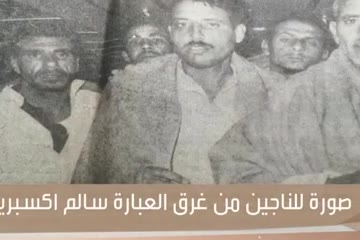
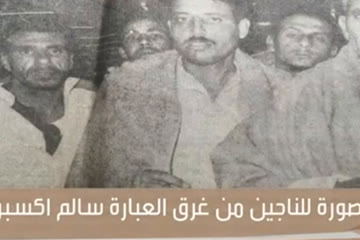
Salem Express story: people on the tilting deck reach and scream with straight arms; galabeya shoulders follow the body; Survivors' photo slowly zooms
Claude-Session: https://claude.ai/code/session_01E23g9Y1KyqYYdwZUxDq2B8

diff --git a/videos/salem/film/scenes.js b/videos/salem/film/scenes.js
@@ -499,7 +499,7 @@
   // 0 · the survivor's real voice; the ship in the storm, already listing
   shot(0, push([180, 330], [180, 336], 1.0, 1.08), function (u, d, t) { return stormNight(t, 380) + shipAt(180, 400, .55, t, { lit: 1, rot: 8 + 1.5 * Math.sin(t * 1.2) }) + waves(t, 400, 9) + rain(t, 80, .35) + recS(t, 66, SURV); }, { foot: "mdark", fw: 250, fy: 130, rot: 0, sync: 1, cap: "فيديو حقيقي · محمود عبد العزيز بيحكي" });
   // 1 · it is real: the photograph of the survivors
-  shot(1, push([180, 330], [180, 320], 1.05, 1.12), function (u, d, t) { return stormNight(t, 400) + waves(t, 420, 6) + rain(t, 40, .25); }, { foot: "photo", fw: 290, fy: 140, cap: "صورة حقيقية · ناجين من سالم إكسبريس" });
+  shot(1, push([180, 340], [185, 300], 1.0, 1.28), function (u, d, t) { return stormNight(t, 400) + waves(t, 420, 6) + rain(t, 40, .25) + dust(t, 50, "#9fc4e6", .5, 9) + rain(t, 60, .3); }, { foot: "photo", fw: 290, fy: 140, cap: "صورة حقيقية · ناجين من سالم إكسبريس" });
   // 2 · the night of 14 December 1991, the Red Sea
   shot(2, push([180, 320], [190, 330], 1.0, 1.1), function (u, d, t) { return night(t, 400) + shipAt(lerp(250, 170, u / d), 400, .5, t, { lit: 1, smoke: 1 }) + seaFront(t, 401, .55) + label("14 ديسمبر 1991", 180, 170, u, .3, 30, "#fff") + label("البحر الأحمر", 180, 208, u, .8, 20, YEL); });
   // 3 · Jeddah to Safaga, more than 600 people
@@ -531,7 +531,7 @@
   // 16 · about 800 km: the Saudi shore falls away to the right, the Egyptian one comes closer on the left
   shot(16, push([180, 270], [150, 230], 1.02, 1.15), function (u, d, t) { var w = wide(t); return w.s + routeLine(w.g, ROUTE, .5 + clamp(u / d) * .42, YEL, { w: 3, ship: 1, t: t }) + label("~800 كم", 240, 300, u, .5, 22, YEL); });
   // 17 · near Safaga, reefs just under the surface (the map zooms in)
-  shot(17, push([180, 280], [180, 280], 1.0, 1.1), function (u, d, t) { var z = zoomed(t); return z.s + label("شعاب مرجانية", 230, 360, u, D(17) * .5, 18, YEL); });
+  shot(17, push([170, 300], [200, 270], 1.0, 1.35), function (u, d, t) { var z = zoomed(t); return z.s + label("شعاب مرجانية", 230, 360, u, D(17) * .5, 18, YEL) + dust(t, 40, "#cfe8ff", .5, 4); });
   // 18 · the weather turned that night: wind, high waves
   shot(18, push([180, 330], [180, 340], 1.1, 1.2), function (u, d, t) { return stormNight(t, 380) + shipAt(180, 400, .6, t, { lit: 1, rot: 4 * Math.sin(t * 1.1) }) + waves(t, 398, 12) + rain(t, 120, .45); });
   // 19 · the normal way goes round the reefs
@@ -551,9 +551,9 @@
   // 26 · the water into the car deck, and the lights went out
   shot(26, push([180, 336], [180, 340], 1.5, 1.35), function (u, d, t) { var k = clamp((u - D(26) * .55) / .3); return cutScene(t, .78, { water: lerp(.2, .6, clamp(u / d)), list: lerp(2, 8, clamp(u / d)), hlW: 1 }) + R(-220, -220, 800, 1300, "#02040a", { s: 0, op: .82 * k }) + label("النور قطع", 180, 160, u, D(26) * .6, 24, "#fff"); });
   // 27 · imagine: the dark, the floor tilting under your feet
-  shot(27, push([180, 330], [180, 320], 1.05, 1.2), function (u, d, t) { var tl = lerp(6, 14, clamp(u / d)), inner = ""; for (var i = 0; i < 4; i++) inner += pil(i, { x: 40 + i * 90, y: 500, s: .6, breath: (Math.sin(t * 5 + i) + 1) / 2, lean: -tl * .6, head: { turn: (hash(i) - .5) * 1.2, tilt: -6 }, face: { eyes: 1.25, brows: "worried", mouth: i % 2 ? "open" : "o" }, arms: [{ rel: [-60, 40], hand: "open", bend: 1 }, { rel: [60, 30], hand: "open", bend: -1 }] }); return deckN(t, tl, inner) + R(-220, -220, 800, 1300, "#000", { s: 0, op: .45 }) + rain(t, 60, .3); });
+  shot(27, push([180, 330], [180, 320], 1.05, 1.2), function (u, d, t) { var tl = lerp(6, 14, clamp(u / d)), inner = ""; for (var i = 0; i < 4; i++) inner += pil(i, { x: 40 + i * 90, y: 500, s: .6, breath: (Math.sin(t * 5 + i) + 1) / 2, lean: -tl * .6, head: { turn: (hash(i) - .5) * 1.2, tilt: -6 }, face: { eyes: 1.25, brows: "worried", mouth: i % 2 ? "open" : "o" }, arms: [[{ rel: [-118, 30 + 6 * Math.sin(t * 2 + i)], hand: "open", bend: 1, straight: true }, { rel: [118, 36 - 6 * Math.sin(t * 2 + i)], hand: "open", bend: -1, straight: true }], [{ rel: [-40, -120], hand: "open", bend: 1, straight: true, palm: true }, { rel: [70, 96], hand: "open", bend: -1, straight: true }]][i % 2] }); return deckN(t, tl, inner) + R(-220, -220, 800, 1300, "#000", { s: 0, op: .45 }) + rain(t, 60, .3); });
   // 28 · the survivor: the women, the men, a mother with two children (synced)
-  shot(28, push([180, 330], [180, 330], 1.1, 1.15), function (u, d, t) { var tl = 14 + 3 * clamp(u / d), inner = ""; for (var i = 0; i < 3; i++) inner += pil(i + 2, { x: 60 + i * 120, y: 510, s: .6, lean: -tl * .6, head: { tilt: -8 }, face: { eyes: 1.25, brows: "worried", mouth: "open" }, arms: [{ rel: [-40, -40], hand: "open", bend: 1 }, { rel: [40, -50], hand: "open", bend: -1 }] }); return deckN(t, tl, inner) + R(-220, -220, 800, 1300, "#000", { s: 0, op: .5 }) + recS(t, 66, SURV); }, { foot: "mwomen", fw: 230, fy: 128, rot: 0, sync: 1, cap: "فيديو حقيقي · محمود عبد العزيز بيحكي" });
+  shot(28, push([180, 330], [180, 330], 1.1, 1.15), function (u, d, t) { var tl = 14 + 3 * clamp(u / d), inner = ""; for (var i = 0; i < 3; i++) inner += pil(i + 2, { x: 60 + i * 120, y: 510, s: .6, lean: -tl * .6, head: { tilt: -8 }, face: { eyes: 1.25, brows: "worried", mouth: "open" }, arms: [[{ rel: [-50 + 6 * Math.sin(t * 3 + i), -116], hand: "open", bend: 1, straight: true, palm: true }, { rel: [50 - 6 * Math.sin(t * 3 + i), -116], hand: "open", bend: -1, straight: true, palm: true }], [{ rel: [-110, -40], hand: "open", bend: 1, straight: true, palm: true }, { rel: [60, -108], hand: "open", bend: -1, straight: true, palm: true }]][i % 2] }); return deckN(t, tl, inner) + R(-220, -220, 800, 1300, "#000", { s: 0, op: .5 }) + recS(t, 66, SURV); }, { foot: "mwomen", fw: 230, fy: 128, rot: 0, sync: 1, cap: "فيديو حقيقي · محمود عبد العزيز بيحكي" });
   // 29 · the ship leaning onto her starboard side, fast
   shot(29, push([180, 336], [180, 340], 1.3, 1.25), function (u, d, t) { return cutScene(t, .78, { water: .9, list: lerp(10, 24, clamp(u / d)), hlW: 1, slide: .3 }) + label("بتميل… بسرعة", 180, 160, u, .5, 22, "#ff6a4a"); });
   // 30 · and at that moment… (the cliffhanger frame)
@@ -565,13 +565,13 @@
   // 33 · in under twenty minutes she rolled onto her side… and went down
   shot(33, push([180, 334], [180, 380], 1.2, 1.0), function (u, d, t) { var k = ease((u - D(33) * .25) / 2.0), k2 = clamp((u - D(33) * .25 - 1.4) / 2.4); return night(t, WY) + cutS(180 + 26 * k, WY + 20 * k + 250 * k2, .62, t, { water: 1, list: lerp(26, 90, k), hlW: 1, slide: .5 }) + seaFront(t, WY, .7) + rain(t, 60, .3); });
   // 34 · many were asleep in the cabins
-  shot(34, push([180, 320], [180, 320], 1.0, 1.08), function (u, d, t) { var s = R(-220, -220, 800, 1300, "#141a26", { s: 0 }) + R(40, 200, 280, 260, "#2a3040", { w: 2 }) + R(60, 220, 240, 70, "#3a4256", { w: 1.6 }) + R(60, 330, 240, 70, "#3a4256", { w: 1.6 }); s += PERSON.side({ x: 180, y: 275, s: .45, rot: -90, outfit: "galabeya", colors: { hair: "#2a2018", skin: "#c98f66" }, face: { eyes: 0 } }).svg; s += R(60, 290, 240, 8, "#c9c3b4", { w: 1 }); return s + R(-220, lerp(560, 330, clamp(u / d)), 800, 400, "#1f4a7a", { s: 0, op: .75 }) + R(-220, -220, 800, 1300, "#000", { s: 0, op: .3 }); });
+  shot(34, push([180, 330], [180, 300], 1.0, 1.25), function (u, d, t) { var s = R(-220, -220, 800, 1300, "#141a26", { s: 0 }) + R(40, 200, 280, 260, "#2a3040", { w: 2 }) + R(60, 220, 240, 70, "#3a4256", { w: 1.6 }) + R(60, 330, 240, 70, "#3a4256", { w: 1.6 }); s += PERSON.side({ x: 180, y: 275, s: .45, rot: -90, outfit: "galabeya", colors: { hair: "#2a2018", skin: "#c98f66" }, face: { eyes: 0 } }).svg; s += R(60, 290, 240, 8, "#c9c3b4", { w: 1 }); return s + R(-220, lerp(560, 330, clamp(u / d)), 800, 400, "#1f4a7a", { s: 0, op: .75 }) + R(-220, -220, 800, 1300, "#000", { s: 0, op: .3 }) + dust(t, 50, "#9fc4e6", .5, 6); });
   // 35 · the survivor: "the waves… death among the people, one after another" (synced)
   shot(35, push([180, 330], [180, 330], 1.05, 1.1), function (u, d, t) { var s = stormNight(t, 330) + waves(t, 340, 10); for (var i = 0; i < 4; i++) s += swimmerN(60 + i * 80, 420 + (i % 2) * 30, .28, t, i); return s + rain(t, 70, .35) + recS(t, 66, SURV); }, { foot: "mwaves", fw: 230, fy: 128, rot: 0, sync: 1, cap: "فيديو حقيقي · محمود عبد العزيز بيحكي" });
   // 36 · people in the water, in the dark and the waves, swimming for the shore
   shot(36, push([180, 340], [180, 330], 1.0, 1.08), function (u, d, t) { var s = stormNight(t, 300) + R(-220, 290, 800, 20, "#1a1c22", { s: 0 }); for (var l = 0; l < 8; l++) s += Ci(30 + l * 44, 298, 1.8, "#ffd98a", { s: 0, op: .6 + .4 * Math.sin(t * 2 + l) }); s += waves(t, 310, 9); for (var i = 0; i < 5; i++) s += swimmerN(40 + i * 70, 380 + (i % 3) * 40, .3, t, i); return s + label("الشط", 180, 280, u, .6, 14, YEL); });
   // 37 · morning: fishermen and rescuers find survivors, and many dead
-  shot(37, push([180, 320], [180, 320], 1.0, 1.1), function (u, d, t) { return sky("skyDawnT") + R(-220, 400, 800, 500, "url(#seaDawn)", { s: 0 }) + glints(t, 400, 30, "#f6d8b0") + G("translate(150 420) scale(.5)", raft(0, 0, t)) + G("translate(" + f(lerp(380, 260, u / d)) + " 412)", P("M-40 0 L-34 -12 L36 -12 L44 0 Z", "#2a5a8a", { w: 1.6 }) + R(-10, -24, 18, 12, "#e8e4d8", { w: 1.2 })) + vests(t, 410, 4); });
+  shot(37, push([170, 330], [200, 320], 1.0, 1.28), function (u, d, t) { return sky("skyDawnT") + R(-220, 400, 800, 500, "url(#seaDawn)", { s: 0 }) + glints(t, 400, 30, "#f6d8b0") + G("translate(150 420) scale(.5)", raft(0, 0, t)) + G("translate(" + f(lerp(380, 260, u / d)) + " 412)", P("M-40 0 L-34 -12 L36 -12 L44 0 Z", "#2a5a8a", { w: 1.6 }) + R(-10, -24, 18, 12, "#e8e4d8", { w: 1.2 })) + vests(t, 410, 4) + dust(t, 40, "#ffe2c0", .5, 2); });
   // 38 · the official number: 470
   shot(38, push([180, 320], [180, 330], 1.0, 1.12), function (u, d, t) { return night(t, 380) + seaFront(t, 381, .5) + bigNum("470", 180, 220, u, .5, 70, "#fff") + label("الرقم الرسمي", 180, 266, u, 1, 20, YEL); });
   // 39 · but many say the real number is far higher
@@ -591,13 +591,13 @@
   // 46 · many say it should be left alone: it is a grave
   shot(46, push([180, 330], [180, 320], 1.0, 1.05), function (u, d, t) { return underSea(t) + wreckSide(180, 470, .6, t) + fish(t, 6, 220) + R(-220, -220, 800, 1300, "#020812", { s: 0, op: .3 }) + label("مقبرة", 180, 420, u, D(46) * .4, 26, "#fff"); }, { foot: "clothes20", cap: "فيديو حقيقي · هدوم جوه العبّارة، 2020" });
   // 47 · the shortcut, banned for all big ships afterwards
-  shot(47, push([170, 280], [170, 280], 1.2, 1.25), function (u, d, t) { var z = zoomed(t); return z.s + routeLine(z.g, SHORT, 1, "#e23a2a", { w: 3.4 }) + xmark(z.w[0], z.w[1] - 40, 1.2, (u - .6) / .5) + routeLine(z.g, NORMAL, 1, "#4ac06a", { w: 2.4, dash: "7 5" }) + label("اتمنع", 180, 150, u, D(47) * .5, 26, "#ff6a4a"); });
+  shot(47, push([160, 300], [180, 270], 1.1, 1.4), function (u, d, t) { var z = zoomed(t); return z.s + routeLine(z.g, SHORT, 1, "#e23a2a", { w: 3.4 }) + xmark(z.w[0], z.w[1] - 40, 1.2, (u - .6) / .5) + routeLine(z.g, NORMAL, 1, "#4ac06a", { w: 2.4, dash: "7 5" }) + label("اتمنع", 180, 150, u, D(47) * .5, 26, "#ff6a4a") + dust(t, 40, "#cfe8ff", .5, 4); });
   // 48 · the same bow door, three years later, sank the Estonia in the Baltic
   shot(48, push([100, 340], [110, 340], 1.9, 2.1), function (u, d, t) { var s = sky("skyStar") + cloudBank(t, 90, 10, 6, "#1a2236", .9, 1.4) + salem({ x: 20, y: 400, s: .9, t: t, lit: 1, noname: 1, visor: lerp(0, 70, ease(clamp((u - 1) / 1.2))) }) + waves(t, 396, 12) + rain(t, 100, .45); return s + label("إستونيا · بحر البلطيق · 1994", 110, 230, u, .4, 13, YEL); });
   // 49 · fifteen years later, Al-Salam 98, in the same sea, with pilgrims again
   shot(49, push([180, 320], [180, 320], 1.0, 1.1), function (u, d, t) { return night(t, 400) + ferryN(lerp(250, 170, u / d), 400, .5, t) + seaFront(t, 401, .55) + label("عبّارة السلام 98 · 2006", 180, 180, u, .6, 20, YEL); });
   // 50 · the call to comment: dawn over the Red Sea, the Safaga shore
-  shot(50, push([180, 330], [180, 320], 1.0, 1.06), function (u, d, t) { return sky("skyDawnT") + mountains(392, ["#8a6a5a", "#6a5048", "#4a3a3a"]) + R(-220, 400, 800, 500, "url(#seaDawn)", { s: 0 }) + glints(t, 400, 40, "#f6d8b0") + G("translate(200 430)", R(-3, -26, 6, 26, "#e23a2a", { w: 1.2 }) + Ci(0, 0, 8, "#f2c230", { w: 1.2 })); });
+  shot(50, push([170, 340], [190, 320], 1.0, 1.25), function (u, d, t) { return sky("skyDawnT") + mountains(392, ["#8a6a5a", "#6a5048", "#4a3a3a"]) + R(-220, 400, 800, 500, "url(#seaDawn)", { s: 0 }) + glints(t, 400, 40, "#f6d8b0") + G("translate(200 430)", R(-3, -26, 6, 26, "#e23a2a", { w: 1.2 }) + Ci(0, 0, 8, "#f2c230", { w: 1.2 })) + dust(t, 40, "#ffe2c0", .5, 3); });
   window.__chip = function (t) { var i = 0; while (i < LN.length - 1 && LN[i + 1].start - .05 <= t) i++; return (i >= 2 && i <= 8) ? .9 : 0; };
 
   // the "link in bio" pill on the bio line, the chip on the opening lines, the real-footage cards

diff --git a/videos/salem/film/_se.js b/videos/salem/film/_se.js
@@ -86,7 +86,7 @@
   // 0 · the survivor's real voice; the ship in the storm, already listing
   shot(0, push([180, 330], [180, 336], 1.0, 1.08), function (u, d, t) { return stormNight(t, 380) + shipAt(180, 400, .55, t, { lit: 1, rot: 8 + 1.5 * Math.sin(t * 1.2) }) + waves(t, 400, 9) + rain(t, 80, .35) + recS(t, 66, SURV); }, { foot: "mdark", fw: 250, fy: 130, rot: 0, sync: 1, cap: "فيديو حقيقي · محمود عبد العزيز بيحكي" });
   // 1 · it is real: the photograph of the survivors
-  shot(1, push([180, 330], [180, 320], 1.05, 1.12), function (u, d, t) { return stormNight(t, 400) + waves(t, 420, 6) + rain(t, 40, .25); }, { foot: "photo", fw: 290, fy: 140, cap: "صورة حقيقية · ناجين من سالم إكسبريس" });
+  shot(1, push([180, 340], [185, 300], 1.0, 1.28), function (u, d, t) { return stormNight(t, 400) + waves(t, 420, 6) + rain(t, 40, .25) + dust(t, 50, "#9fc4e6", .5, 9) + rain(t, 60, .3); }, { foot: "photo", fw: 290, fy: 140, cap: "صورة حقيقية · ناجين من سالم إكسبريس" });
   // 2 · the night of 14 December 1991, the Red Sea
   shot(2, push([180, 320], [190, 330], 1.0, 1.1), function (u, d, t) { return night(t, 400) + shipAt(lerp(250, 170, u / d), 400, .5, t, { lit: 1, smoke: 1 }) + seaFront(t, 401, .55) + label("14 ديسمبر 1991", 180, 170, u, .3, 30, "#fff") + label("البحر الأحمر", 180, 208, u, .8, 20, YEL); });
   // 3 · Jeddah to Safaga, more than 600 people
@@ -118,7 +118,7 @@
   // 16 · about 800 km: the Saudi shore falls away to the right, the Egyptian one comes closer on the left
   shot(16, push([180, 270], [150, 230], 1.02, 1.15), function (u, d, t) { var w = wide(t); return w.s + routeLine(w.g, ROUTE, .5 + clamp(u / d) * .42, YEL, { w: 3, ship: 1, t: t }) + label("~800 كم", 240, 300, u, .5, 22, YEL); });
   // 17 · near Safaga, reefs just under the surface (the map zooms in)
-  shot(17, push([180, 280], [180, 280], 1.0, 1.1), function (u, d, t) { var z = zoomed(t); return z.s + label("شعاب مرجانية", 230, 360, u, D(17) * .5, 18, YEL); });
+  shot(17, push([170, 300], [200, 270], 1.0, 1.35), function (u, d, t) { var z = zoomed(t); return z.s + label("شعاب مرجانية", 230, 360, u, D(17) * .5, 18, YEL) + dust(t, 40, "#cfe8ff", .5, 4); });
   // 18 · the weather turned that night: wind, high waves
   shot(18, push([180, 330], [180, 340], 1.1, 1.2), function (u, d, t) { return stormNight(t, 380) + shipAt(180, 400, .6, t, { lit: 1, rot: 4 * Math.sin(t * 1.1) }) + waves(t, 398, 12) + rain(t, 120, .45); });
   // 19 · the normal way goes round the reefs
@@ -138,9 +138,9 @@
   // 26 · the water into the car deck, and the lights went out
   shot(26, push([180, 336], [180, 340], 1.5, 1.35), function (u, d, t) { var k = clamp((u - D(26) * .55) / .3); return cutScene(t, .78, { water: lerp(.2, .6, clamp(u / d)), list: lerp(2, 8, clamp(u / d)), hlW: 1 }) + R(-220, -220, 800, 1300, "#02040a", { s: 0, op: .82 * k }) + label("النور قطع", 180, 160, u, D(26) * .6, 24, "#fff"); });
   // 27 · imagine: the dark, the floor tilting under your feet
-  shot(27, push([180, 330], [180, 320], 1.05, 1.2), function (u, d, t) { var tl = lerp(6, 14, clamp(u / d)), inner = ""; for (var i = 0; i < 4; i++) inner += pil(i, { x: 40 + i * 90, y: 500, s: .6, breath: (Math.sin(t * 5 + i) + 1) / 2, lean: -tl * .6, head: { turn: (hash(i) - .5) * 1.2, tilt: -6 }, face: { eyes: 1.25, brows: "worried", mouth: i % 2 ? "open" : "o" }, arms: [{ rel: [-60, 40], hand: "open", bend: 1 }, { rel: [60, 30], hand: "open", bend: -1 }] }); return deckN(t, tl, inner) + R(-220, -220, 800, 1300, "#000", { s: 0, op: .45 }) + rain(t, 60, .3); });
+  shot(27, push([180, 330], [180, 320], 1.05, 1.2), function (u, d, t) { var tl = lerp(6, 14, clamp(u / d)), inner = ""; for (var i = 0; i < 4; i++) inner += pil(i, { x: 40 + i * 90, y: 500, s: .6, breath: (Math.sin(t * 5 + i) + 1) / 2, lean: -tl * .6, head: { turn: (hash(i) - .5) * 1.2, tilt: -6 }, face: { eyes: 1.25, brows: "worried", mouth: i % 2 ? "open" : "o" }, arms: [[{ rel: [-118, 30 + 6 * Math.sin(t * 2 + i)], hand: "open", bend: 1, straight: true }, { rel: [118, 36 - 6 * Math.sin(t * 2 + i)], hand: "open", bend: -1, straight: true }], [{ rel: [-40, -120], hand: "open", bend: 1, straight: true, palm: true }, { rel: [70, 96], hand: "open", bend: -1, straight: true }]][i % 2] }); return deckN(t, tl, inner) + R(-220, -220, 800, 1300, "#000", { s: 0, op: .45 }) + rain(t, 60, .3); });
   // 28 · the survivor: the women, the men, a mother with two children (synced)
-  shot(28, push([180, 330], [180, 330], 1.1, 1.15), function (u, d, t) { var tl = 14 + 3 * clamp(u / d), inner = ""; for (var i = 0; i < 3; i++) inner += pil(i + 2, { x: 60 + i * 120, y: 510, s: .6, lean: -tl * .6, head: { tilt: -8 }, face: { eyes: 1.25, brows: "worried", mouth: "open" }, arms: [{ rel: [-40, -40], hand: "open", bend: 1 }, { rel: [40, -50], hand: "open", bend: -1 }] }); return deckN(t, tl, inner) + R(-220, -220, 800, 1300, "#000", { s: 0, op: .5 }) + recS(t, 66, SURV); }, { foot: "mwomen", fw: 230, fy: 128, rot: 0, sync: 1, cap: "فيديو حقيقي · محمود عبد العزيز بيحكي" });
+  shot(28, push([180, 330], [180, 330], 1.1, 1.15), function (u, d, t) { var tl = 14 + 3 * clamp(u / d), inner = ""; for (var i = 0; i < 3; i++) inner += pil(i + 2, { x: 60 + i * 120, y: 510, s: .6, lean: -tl * .6, head: { tilt: -8 }, face: { eyes: 1.25, brows: "worried", mouth: "open" }, arms: [[{ rel: [-50 + 6 * Math.sin(t * 3 + i), -116], hand: "open", bend: 1, straight: true, palm: true }, { rel: [50 - 6 * Math.sin(t * 3 + i), -116], hand: "open", bend: -1, straight: true, palm: true }], [{ rel: [-110, -40], hand: "open", bend: 1, straight: true, palm: true }, { rel: [60, -108], hand: "open", bend: -1, straight: true, palm: true }]][i % 2] }); return deckN(t, tl, inner) + R(-220, -220, 800, 1300, "#000", { s: 0, op: .5 }) + recS(t, 66, SURV); }, { foot: "mwomen", fw: 230, fy: 128, rot: 0, sync: 1, cap: "فيديو حقيقي · محمود عبد العزيز بيحكي" });
   // 29 · the ship leaning onto her starboard side, fast
   shot(29, push([180, 336], [180, 340], 1.3, 1.25), function (u, d, t) { return cutScene(t, .78, { water: .9, list: lerp(10, 24, clamp(u / d)), hlW: 1, slide: .3 }) + label("بتميل… بسرعة", 180, 160, u, .5, 22, "#ff6a4a"); });
   // 30 · and at that moment… (the cliffhanger frame)
@@ -152,13 +152,13 @@
   // 33 · in under twenty minutes she rolled onto her side… and went down
   shot(33, push([180, 334], [180, 380], 1.2, 1.0), function (u, d, t) { var k = ease((u - D(33) * .25) / 2.0), k2 = clamp((u - D(33) * .25 - 1.4) / 2.4); return night(t, WY) + cutS(180 + 26 * k, WY + 20 * k + 250 * k2, .62, t, { water: 1, list: lerp(26, 90, k), hlW: 1, slide: .5 }) + seaFront(t, WY, .7) + rain(t, 60, .3); });
   // 34 · many were asleep in the cabins
-  shot(34, push([180, 320], [180, 320], 1.0, 1.08), function (u, d, t) { var s = R(-220, -220, 800, 1300, "#141a26", { s: 0 }) + R(40, 200, 280, 260, "#2a3040", { w: 2 }) + R(60, 220, 240, 70, "#3a4256", { w: 1.6 }) + R(60, 330, 240, 70, "#3a4256", { w: 1.6 }); s += PERSON.side({ x: 180, y: 275, s: .45, rot: -90, outfit: "galabeya", colors: { hair: "#2a2018", skin: "#c98f66" }, face: { eyes: 0 } }).svg; s += R(60, 290, 240, 8, "#c9c3b4", { w: 1 }); return s + R(-220, lerp(560, 330, clamp(u / d)), 800, 400, "#1f4a7a", { s: 0, op: .75 }) + R(-220, -220, 800, 1300, "#000", { s: 0, op: .3 }); });
+  shot(34, push([180, 330], [180, 300], 1.0, 1.25), function (u, d, t) { var s = R(-220, -220, 800, 1300, "#141a26", { s: 0 }) + R(40, 200, 280, 260, "#2a3040", { w: 2 }) + R(60, 220, 240, 70, "#3a4256", { w: 1.6 }) + R(60, 330, 240, 70, "#3a4256", { w: 1.6 }); s += PERSON.side({ x: 180, y: 275, s: .45, rot: -90, outfit: "galabeya", colors: { hair: "#2a2018", skin: "#c98f66" }, face: { eyes: 0 } }).svg; s += R(60, 290, 240, 8, "#c9c3b4", { w: 1 }); return s + R(-220, lerp(560, 330, clamp(u / d)), 800, 400, "#1f4a7a", { s: 0, op: .75 }) + R(-220, -220, 800, 1300, "#000", { s: 0, op: .3 }) + dust(t, 50, "#9fc4e6", .5, 6); });
   // 35 · the survivor: "the waves… death among the people, one after another" (synced)
   shot(35, push([180, 330], [180, 330], 1.05, 1.1), function (u, d, t) { var s = stormNight(t, 330) + waves(t, 340, 10); for (var i = 0; i < 4; i++) s += swimmerN(60 + i * 80, 420 + (i % 2) * 30, .28, t, i); return s + rain(t, 70, .35) + recS(t, 66, SURV); }, { foot: "mwaves", fw: 230, fy: 128, rot: 0, sync: 1, cap: "فيديو حقيقي · محمود عبد العزيز بيحكي" });
   // 36 · people in the water, in the dark and the waves, swimming for the shore
   shot(36, push([180, 340], [180, 330], 1.0, 1.08), function (u, d, t) { var s = stormNight(t, 300) + R(-220, 290, 800, 20, "#1a1c22", { s: 0 }); for (var l = 0; l < 8; l++) s += Ci(30 + l * 44, 298, 1.8, "#ffd98a", { s: 0, op: .6 + .4 * Math.sin(t * 2 + l) }); s += waves(t, 310, 9); for (var i = 0; i < 5; i++) s += swimmerN(40 + i * 70, 380 + (i % 3) * 40, .3, t, i); return s + label("الشط", 180, 280, u, .6, 14, YEL); });
   // 37 · morning: fishermen and rescuers find survivors, and many dead
-  shot(37, push([180, 320], [180, 320], 1.0, 1.1), function (u, d, t) { return sky("skyDawnT") + R(-220, 400, 800, 500, "url(#seaDawn)", { s: 0 }) + glints(t, 400, 30, "#f6d8b0") + G("translate(150 420) scale(.5)", raft(0, 0, t)) + G("translate(" + f(lerp(380, 260, u / d)) + " 412)", P("M-40 0 L-34 -12 L36 -12 L44 0 Z", "#2a5a8a", { w: 1.6 }) + R(-10, -24, 18, 12, "#e8e4d8", { w: 1.2 })) + vests(t, 410, 4); });
+  shot(37, push([170, 330], [200, 320], 1.0, 1.28), function (u, d, t) { return sky("skyDawnT") + R(-220, 400, 800, 500, "url(#seaDawn)", { s: 0 }) + glints(t, 400, 30, "#f6d8b0") + G("translate(150 420) scale(.5)", raft(0, 0, t)) + G("translate(" + f(lerp(380, 260, u / d)) + " 412)", P("M-40 0 L-34 -12 L36 -12 L44 0 Z", "#2a5a8a", { w: 1.6 }) + R(-10, -24, 18, 12, "#e8e4d8", { w: 1.2 })) + vests(t, 410, 4) + dust(t, 40, "#ffe2c0", .5, 2); });
   // 38 · the official number: 470
   shot(38, push([180, 320], [180, 330], 1.0, 1.12), function (u, d, t) { return night(t, 380) + seaFront(t, 381, .5) + bigNum("470", 180, 220, u, .5, 70, "#fff") + label("الرقم الرسمي", 180, 266, u, 1, 20, YEL); });
   // 39 · but many say the real number is far higher
@@ -178,12 +178,12 @@
   // 46 · many say it should be left alone: it is a grave
   shot(46, push([180, 330], [180, 320], 1.0, 1.05), function (u, d, t) { return underSea(t) + wreckSide(180, 470, .6, t) + fish(t, 6, 220) + R(-220, -220, 800, 1300, "#020812", { s: 0, op: .3 }) + label("مقبرة", 180, 420, u, D(46) * .4, 26, "#fff"); }, { foot: "clothes20", cap: "فيديو حقيقي · هدوم جوه العبّارة، 2020" });
   // 47 · the shortcut, banned for all big ships afterwards
-  shot(47, push([170, 280], [170, 280], 1.2, 1.25), function (u, d, t) { var z = zoomed(t); return z.s + routeLine(z.g, SHORT, 1, "#e23a2a", { w: 3.4 }) + xmark(z.w[0], z.w[1] - 40, 1.2, (u - .6) / .5) + routeLine(z.g, NORMAL, 1, "#4ac06a", { w: 2.4, dash: "7 5" }) + label("اتمنع", 180, 150, u, D(47) * .5, 26, "#ff6a4a"); });
+  shot(47, push([160, 300], [180, 270], 1.1, 1.4), function (u, d, t) { var z = zoomed(t); return z.s + routeLine(z.g, SHORT, 1, "#e23a2a", { w: 3.4 }) + xmark(z.w[0], z.w[1] - 40, 1.2, (u - .6) / .5) + routeLine(z.g, NORMAL, 1, "#4ac06a", { w: 2.4, dash: "7 5" }) + label("اتمنع", 180, 150, u, D(47) * .5, 26, "#ff6a4a") + dust(t, 40, "#cfe8ff", .5, 4); });
   // 48 · the same bow door, three years later, sank the Estonia in the Baltic
   shot(48, push([100, 340], [110, 340], 1.9, 2.1), function (u, d, t) { var s = sky("skyStar") + cloudBank(t, 90, 10, 6, "#1a2236", .9, 1.4) + salem({ x: 20, y: 400, s: .9, t: t, lit: 1, noname: 1, visor: lerp(0, 70, ease(clamp((u - 1) / 1.2))) }) + waves(t, 396, 12) + rain(t, 100, .45); return s + label("إستونيا · بحر البلطيق · 1994", 110, 230, u, .4, 13, YEL); });
   // 49 · fifteen years later, Al-Salam 98, in the same sea, with pilgrims again
   shot(49, push([180, 320], [180, 320], 1.0, 1.1), function (u, d, t) { return night(t, 400) + ferryN(lerp(250, 170, u / d), 400, .5, t) + seaFront(t, 401, .55) + label("عبّارة السلام 98 · 2006", 180, 180, u, .6, 20, YEL); });
   // 50 · the call to comment: dawn over the Red Sea, the Safaga shore
-  shot(50, push([180, 330], [180, 320], 1.0, 1.06), function (u, d, t) { return sky("skyDawnT") + mountains(392, ["#8a6a5a", "#6a5048", "#4a3a3a"]) + R(-220, 400, 800, 500, "url(#seaDawn)", { s: 0 }) + glints(t, 400, 40, "#f6d8b0") + G("translate(200 430)", R(-3, -26, 6, 26, "#e23a2a", { w: 1.2 }) + Ci(0, 0, 8, "#f2c230", { w: 1.2 })); });
+  shot(50, push([170, 340], [190, 320], 1.0, 1.25), function (u, d, t) { return sky("skyDawnT") + mountains(392, ["#8a6a5a", "#6a5048", "#4a3a3a"]) + R(-220, 400, 800, 500, "url(#seaDawn)", { s: 0 }) + glints(t, 400, 40, "#f6d8b0") + G("translate(200 430)", R(-3, -26, 6, 26, "#e23a2a", { w: 1.2 }) + Ci(0, 0, 8, "#f2c230", { w: 1.2 })) + dust(t, 40, "#ffe2c0", .5, 3); });
   window.__chip = function (t) { var i = 0; while (i < LN.length - 1 && LN[i + 1].start - .05 <= t) i++; return (i >= 2 && i <= 8) ? .9 : 0; };
 

diff --git a/videos/_templates/people/person.js b/videos/_templates/people/person.js
@@ -291,7 +291,7 @@ function person(o) {
   });
   if (OF.over === "apron") svg += '<path d="' + pPath([T(104, -20), T(104, 20), T(60, 28), T(-64, 36), T(-64, -36), T(60, -28)], true) + '" fill="' + c.apron + '" stroke="' + INK + '" stroke-width="' + f(2 * s) + '"/>' + pLine([T(104, -18), T(hNeck - 4, -12)], INK, 1.6 * s) + pLine([T(104, 18), T(hNeck - 4, 12)], INK, 1.6 * s) + pLine([T(20, -38), T(20, 38)], c.apronD, 3 * s);
   if (OF.over === "galabeya") {   // a long closed robe from the shoulders to the ankles (Egyptian galabeya, pilgrims' white): body, neck slit, folds
-    svg += '<path d="' + pPath([T(hSh + 6, -40), T(hNeck + 2, -12), T(hNeck + 2, 12), T(hSh + 6, 40), T(60, 46), T(-120, 56), T(-182, 62), T(-184, -62), T(-120, -56), T(60, -46)], true) + '" fill="' + c.coat + '" stroke="' + INK + '" stroke-width="' + f(2.2 * s) + '"/>';
+    svg += '<path d="' + pPath([T(hSh + 2, -30), T(hNeck + 2, -12), T(hNeck + 2, 12), T(hSh + 2, 30), T(hSh - 10, 42), T(60, 42), T(-120, 54), T(-182, 60), T(-184, -60), T(-120, -54), T(60, -42), T(hSh - 10, -42)], true) + '" fill="' + c.coat + '" stroke="' + INK + '" stroke-width="' + f(2.2 * s) + '"/>';
     svg += pLine([T(hNeck, 0), T(hNeck - 34, 0)], c.coatD, 1.6 * s) + pLine([T(20, 22), T(-178, 40)], c.coatD, 1.6 * s) + pLine([T(10, -16), T(-178, -30)], c.coatD, 1.3 * s) + pLine([T(-30, 4), T(-180, 6)], c.coatD, 1.2 * s);
   }
   if (OF.over === "labcoat") [-1, 1].forEach(function (sd) {   // an open white coat to mid-thigh: panel, lapel, pocket

diff --git a/videos/salem/film/footage.js b/videos/salem/film/footage.js
@@ -1,1 +1,1 @@
-window.FOOT = {"name92": 54, "photo": 30, "clothes20": 30, "radio20": 30, "mwomen": 65, "mreef": 44, "mdark": 34, "bags20": 36, "mwaves": 34, "wreck20": 36, "bags92": 36};
+window.FOOT = {"name92": 54, "photo": 48, "clothes20": 30, "radio20": 30, "mwomen": 65, "mreef": 44, "mdark": 34, "bags20": 36, "mwaves": 34, "wreck20": 36, "bags92": 36};
